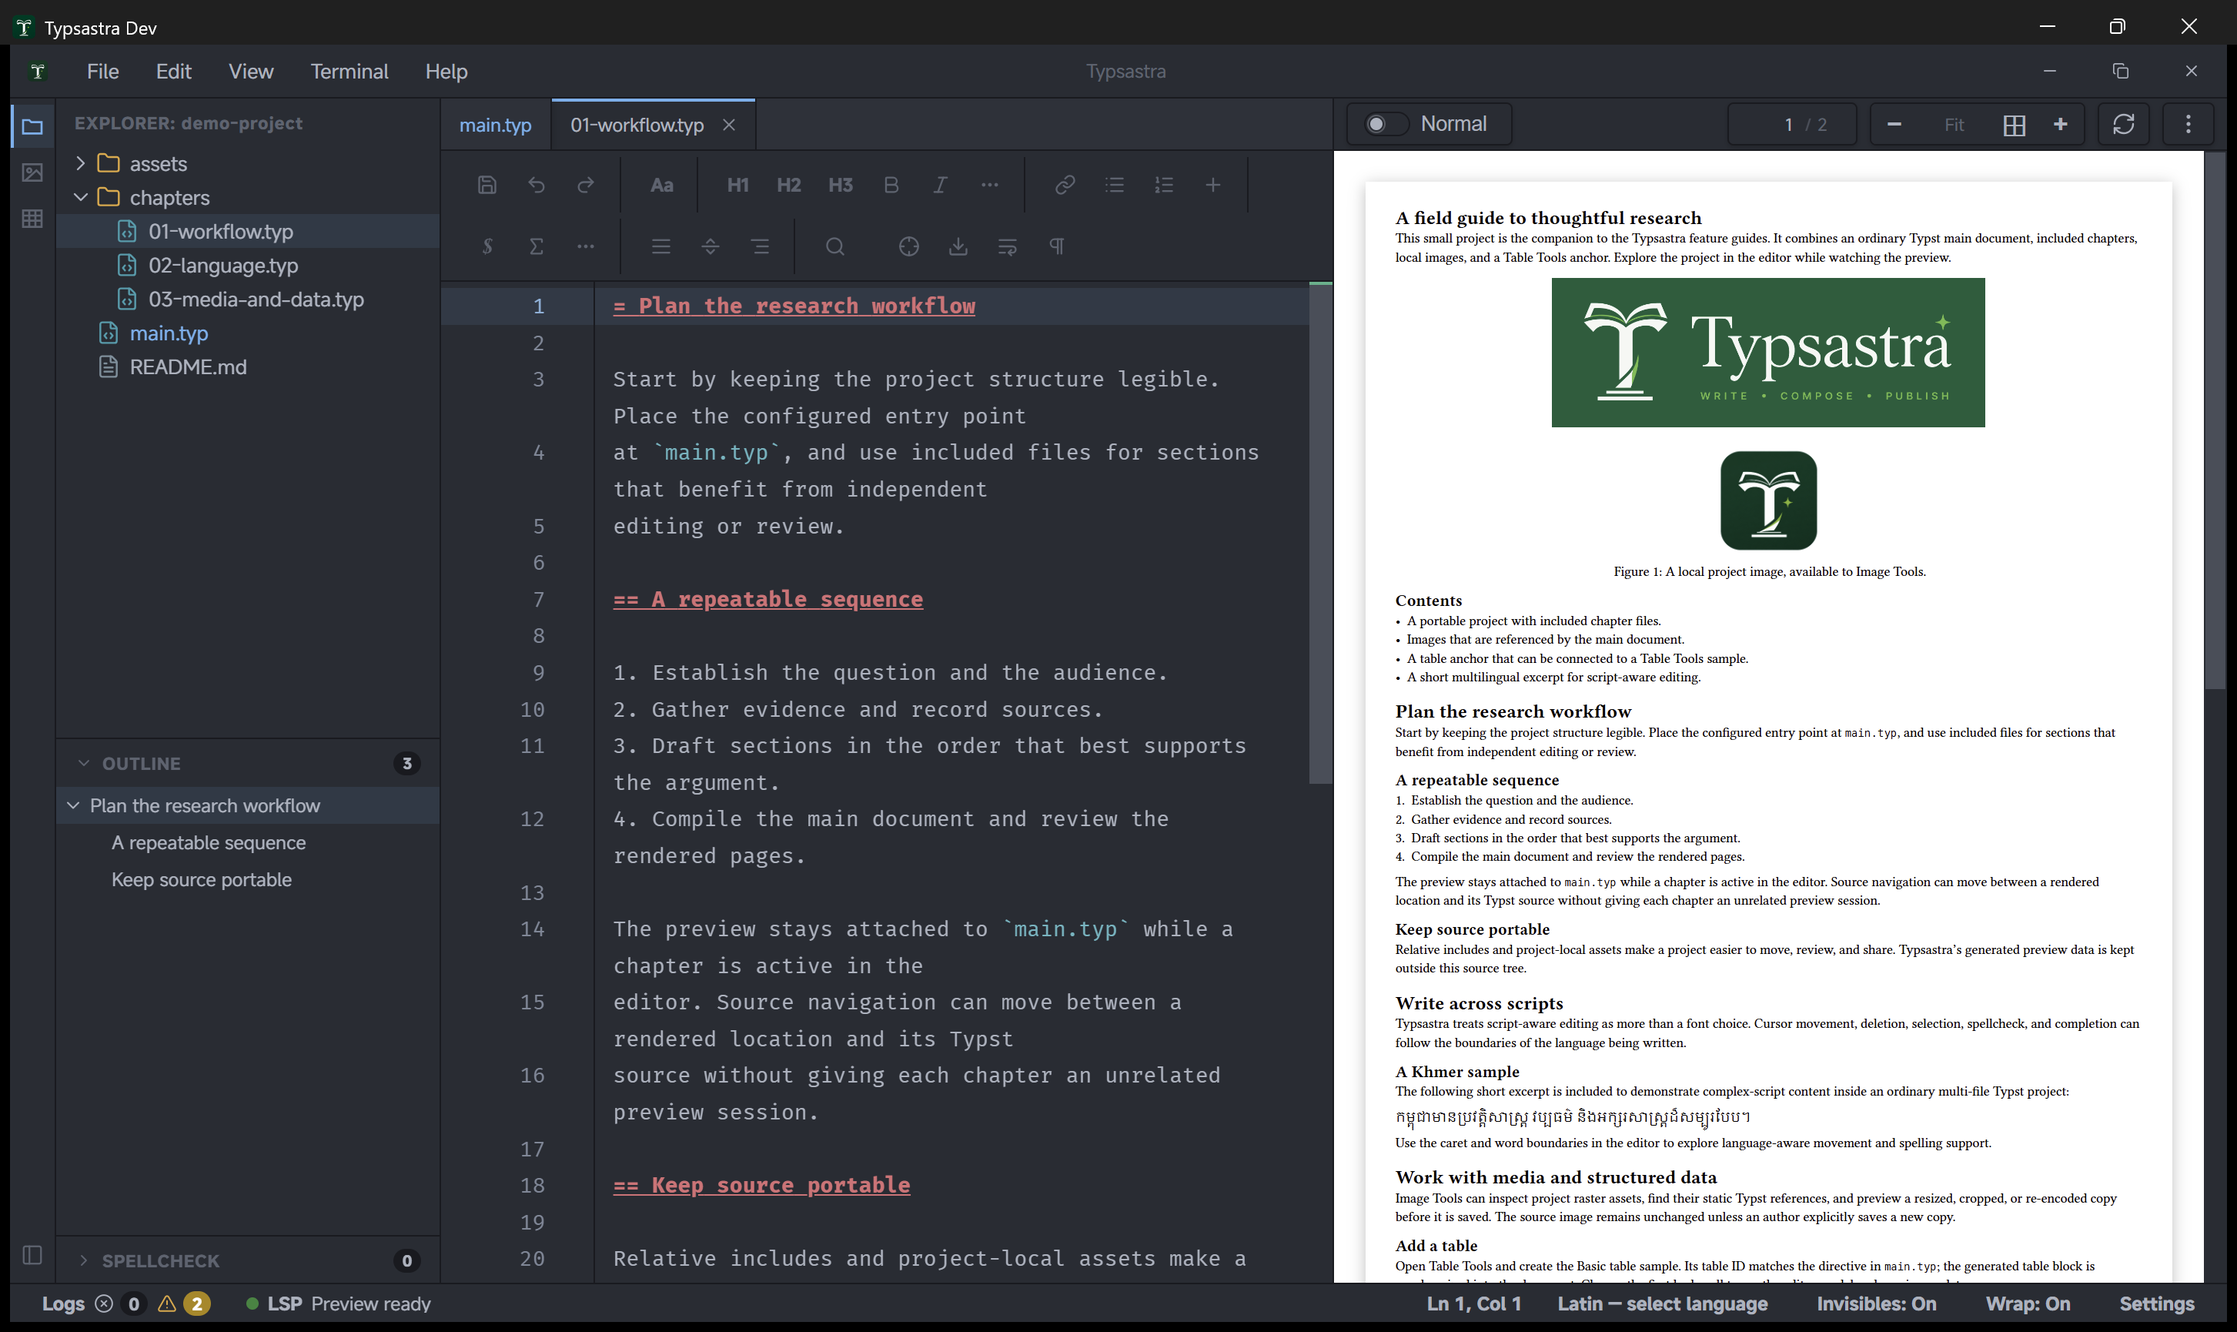
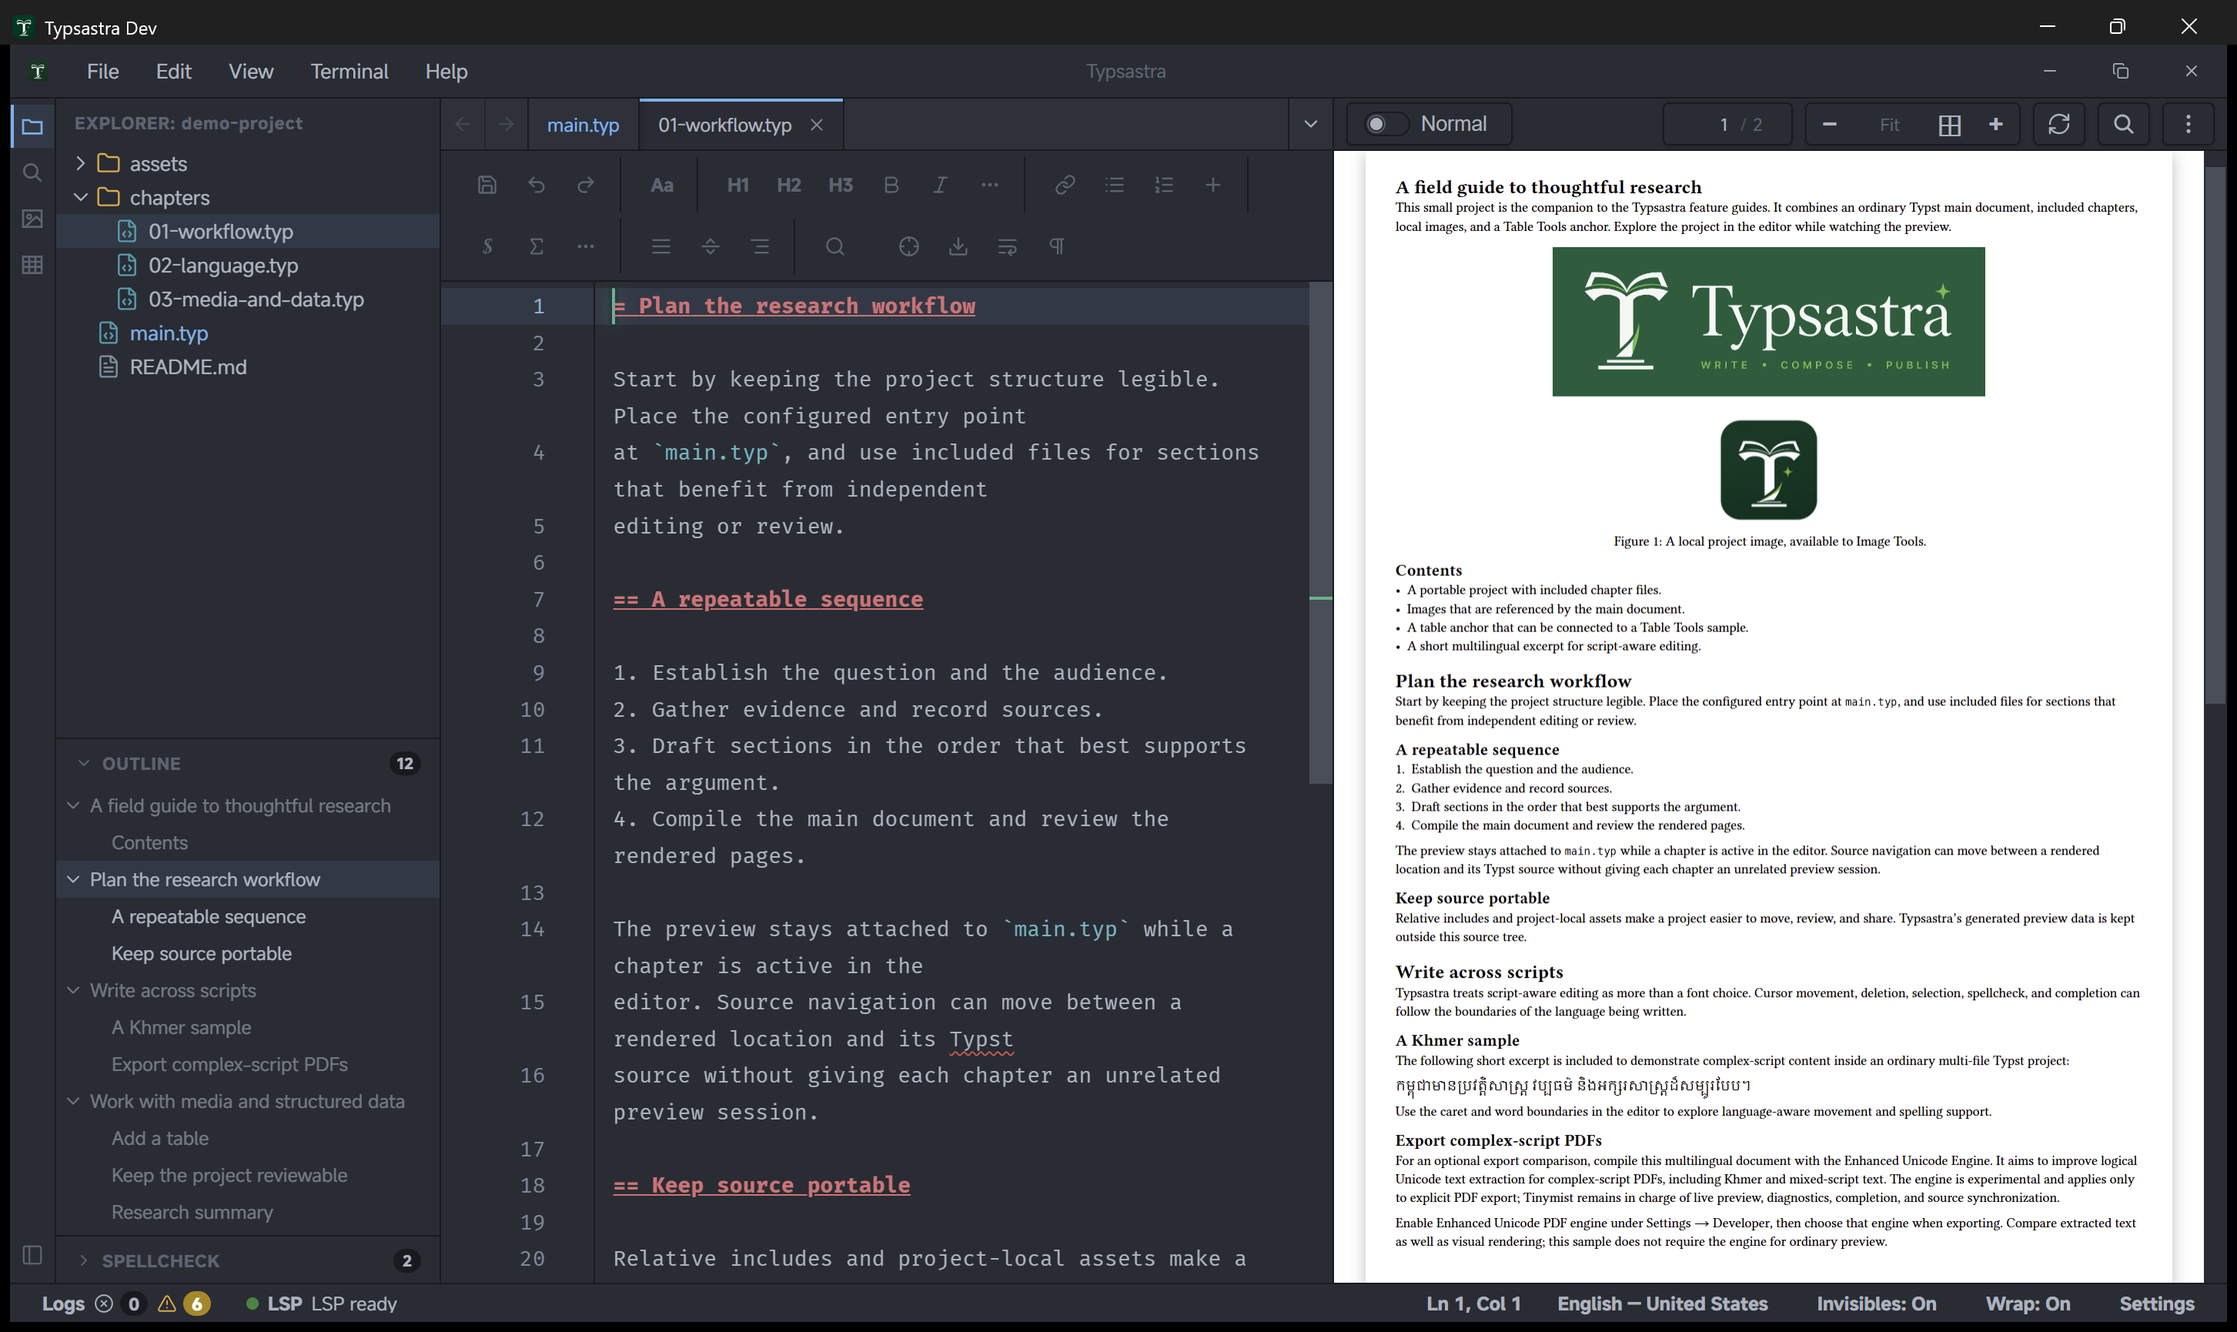
docs: add v0.10 guides and screenshots
- add v0.10 release notes and site highlights
- refresh editor, preview, tools, and project screenshots
- document search, recovery, outline, and language defaults
- update the demo project language assignment

diff --git a/docs/index.md b/docs/index.md
@@ -6,15 +6,41 @@ technical documentation, theses, books, and multilingual long-form writing.
 This site brings together step-by-step workflows, tool references, language
 guides, and contributor documentation.
 
-## New in v0.9.6
+## New in v0.10.0
 
-This update improves Hunspell dictionary compatibility, adds LibreOffice
-spelling variants, streamlines language-provider management, and fixes selection
-wrapping, paste, preview freshness, and stale diagnostic behavior.
+Typsastra v0.10.0 adds project-wide search and reviewed replacement, a shared
+main-document outline, Back/Forward source navigation, unsaved-work recovery,
+and global default document languages.
 
-Read the [v0.9.6 release notes](RELEASE_NOTES_V0.9.6.md), or explore the
-[preview settings](SETTINGS.md#preview) and
-[PDF navigation guide](tutorials/PDF_PREVIEW_AND_SYNC.md).
+Read the [v0.10.0 release notes](RELEASE_NOTES_V0.10.0.md).
+
+### Search and replace across a project
+
+![Project search sidebar with grouped results and filters](assets/screenshots/demo-project-search.png)
+
+![Reviewed replacement showing before and after lines in two files](assets/screenshots/demo-project-replace.png)
+
+### Recover unsaved work
+
+![Recovery review showing an unsaved main.typ buffer and a unified diff](assets/screenshots/demo-recovery-review.png)
+
+### Set default document languages
+
+![Language settings with Latin set to English (United States) for new projects](assets/screenshots/demo-language-settings.png)
+
+### Main-document outline and tab navigation
+
+The outline follows the configured main document while an included chapter is
+active. The tab-list menu reaches every open source tab.
+
+![Shared main-document outline while a chapter is active](assets/screenshots/demo-explorer.png)
+
+![Tab list menu listing the main document and included chapters](assets/screenshots/demo-tab-list.png)
+
+The previous v0.9.6 update improved Hunspell dictionary compatibility, added
+LibreOffice spelling variants, streamlined language-provider management, and
+fixed selection wrapping, paste, preview freshness, and stale diagnostic
+behavior. See the [v0.9.6 release notes](RELEASE_NOTES_V0.9.6.md).
 
 ## Start here
 
@@ -22,6 +48,8 @@ Read the [v0.9.6 release notes](RELEASE_NOTES_V0.9.6.md), or explore the
 - [Projects and main files](tutorials/PROJECTS_AND_MAIN_FILES.md) — understand multi-file projects and main documents.
 - [Create from templates](tutorials/PROJECT_TEMPLATES.md) — browse Universe, offline, and user templates.
 - [PDF preview and synchronization](tutorials/PDF_PREVIEW_AND_SYNC.md) — work with live preview and source navigation.
+- [Search a project](tutorials/PROJECT_SEARCH.md) — find and review replacements across project files.
+- [Editor productivity](tutorials/EDITOR_PRODUCTIVITY.md) — navigation, recovery, shortcuts, and editing workflows.
 - [Image Tools](tutorials/IMAGE_TOOLS.md) — inspect, crop, and optimize project images.
 - [Table Tools](tutorials/TABLE_TOOLS.md) — create, link, and edit Typst tables.
 - [Settings reference](SETTINGS.md) — configure editing, preview, language tools, and appearance.

diff --git a/docs/RELEASE_NOTES_V0.10.0.md b/docs/RELEASE_NOTES_V0.10.0.md
@@ -1,0 +1,67 @@
+# Typsastra v0.10.0 release notes
+
+Typsastra v0.10.0 completes the multi-file navigation, editing, and recovery
+work planned for this release, and adds built-in interface localization and
+global document-language defaults.
+
+## Project search and replacement
+
+- Search the current project from the sidebar with literal, regular-expression,
+  or fuzzy matching.
+- Filter by include/exclude globs, case, whole words, diacritics, ignored files,
+  or the pinned main document and its reachable sources.
+- Review results grouped by file with line numbers and highlighted excerpts;
+  selecting a result opens and selects the match without moving the PDF.
+- Replace selected matches across files with a before/after review. Unsafe
+  grapheme-splitting matches are rejected, and stale files abort the whole batch.
+- Undo a replacement batch while every affected buffer still matches its output.
+
+## Shared main-document outline
+
+- The project outline now follows the configured main document, including while
+  an included chapter is active.
+- Headings from other files are muted so the active file's headings stand out.
+- Outline selection and expansion survive tab changes and main-file updates.
+
+## Source navigation
+
+- Back and Forward navigate source locations across search, outline,
+  definitions, diagnostics, inverse sync, Explorer opens, and tab selections.
+- Navigation restores the editor selection and viewport without recompiling the
+  preview or moving the PDF.
+- The tab bar scrolls horizontally, and its menu lists every open tab.
+
+## Unsaved-work recovery
+
+- Typsastra snapshots unsaved editor text, including inactive dirty tabs and
+  pathless untitled buffers.
+- Recovery snapshots live outside the project and are reviewed through a unified
+  diff before restoring.
+- Restored files open as unsaved buffers; source files are never overwritten
+  automatically.
+- Corrupt records are reported separately and do not block valid snapshots.
+
+## Language settings
+
+- The interface can be localized through built-in locale catalogs. English
+  remains the source locale.
+- **Settings → Language → Default document languages** defines the script-language
+  assignments used by new projects. Latin defaults to English (United States).
+- Existing projects keep their own assignments in `.typsastra/config.json`.
+
+## Distribution
+
+- Added Chocolatey, Scoop, and AUR packaging metadata generated from published
+  release assets.
+- The AppImage build now uses Tauri CLI 2.12 so the packaged launcher is
+  executable for all users.
+
+## Compatibility
+
+v0.10.0 does not change the `.typsastra` project archive schema. Existing
+projects remain compatible. Recovery data and generated preview caches stay in
+machine-local application storage.
+
+Windows installers remain unsigned, so SmartScreen may warn on first launch. The
+macOS build remains unsigned and unnotarized; use the targeted Gatekeeper
+workaround in the [installation guide](INSTALL.md#open-an-unsigned-macos-release).

diff --git a/README.md b/README.md
@@ -14,7 +14,7 @@ Available packages:
 - Linux: `.AppImage` and `.deb`
 - macOS: experimental, unsigned and unnotarized build
 
-Typsastra is currently beta software. The latest release is v0.9.6.
+Typsastra is currently beta software. The latest release is v0.10.0.
 
 Windows users can also install through
 [Windows Package Manager](https://learn.microsoft.com/windows/package-manager/winget/)
@@ -46,6 +46,39 @@ The name combines Typst, the typesetting system at the center of the project, wi
 It serves writers and researchers whose languages are not always well supported by traditional technical-writing tools. Typsastra focuses on Unicode-safe editing, script-aware interaction, responsive PDF preview, extensible language tools, and multi-file project workflows while keeping the underlying Typst source portable.
 
 Khmer is the first language with deep support, including tailored cursor and deletion behavior, spellcheck, and word completion. Khmer demonstrates the depth Typsastra aims to provide; it is not the boundary of the project. The editing-policy and language-provider architecture is designed so other languages can add their own behavior without changing or weakening Khmer support.
+
+## v0.10.0: Search, recovery, and navigation
+
+Typsastra v0.10.0 adds project-wide search and reviewed replacement, a shared
+main-document outline, Back/Forward source navigation, unsaved-work recovery,
+and global default document languages.
+
+### Search and replace across a project
+
+<img src="./assets/screenshot-project-search.png" alt="Project search sidebar with grouped file results and filters" width="800"/>
+
+<img src="./assets/screenshot-project-replace.png" alt="Reviewed replacement showing before and after lines across two files" width="800"/>
+
+### Recover unsaved work
+
+Typsastra snapshots unsaved text outside the project and reviews recovery
+snapshots as unified diffs before restoring them as unsaved buffers.
+
+<img src="./assets/screenshot-recovery-review.png" alt="Recovery review showing an unsaved main.typ buffer and a unified diff" width="800"/>
+
+### Main-document outline, tab navigation, and language defaults
+
+The outline follows the configured main document while an included chapter is
+active. The tab-list menu reaches every open source tab, and new projects inherit
+the default document-language assignments configured in Settings.
+
+<img src="./assets/screenshot-main-outline.png" alt="Shared main-document outline while an included chapter is active" width="800"/>
+
+<img src="./assets/screenshot-tab-list.png" alt="Tab list menu listing the main document and included chapters" width="800"/>
+
+<img src="./assets/screenshot-language-settings.png" alt="Language settings with Latin set to English (United States) for new projects" width="800"/>
+
+See the [v0.10.0 release notes](./docs/RELEASE_NOTES_V0.10.0.md).
 
 ## v0.9.6: Language and editing reliability
 

diff --git a/docs/demo-project/README.md b/docs/demo-project/README.md
@@ -14,6 +14,17 @@ images so the Explorer, Image Tools, and multi-file preview have useful content.
    this demo project's configuration. Its ID matches the `//@table:basic_table`
    anchor in `main.typ`, and its generated Typst block is synchronized there.
 4. Change a table cell and inspect the live preview update.
+5. Open **Search Project** and search for `research` to see matches across the
+   main document and chapters. Enter a replacement and use **Review** to inspect
+   the before/after changes before applying them.
+6. Edit a chapter, wait for the unsaved-work snapshot, and reopen the project to
+   review the recovered text as a unified diff. Restoring opens an unsaved
+   buffer; it does not overwrite the source file.
+
+The project declares Latin script → English (United States) in
+`.typsastra/config.json`, so the language status and spellcheck tools have a
+usable default. New projects inherit this assignment from **Settings → Language →
+Default document languages**.
 
 ## Follow the guides
 

diff --git a/docs/tutorials/EXPLORER_AND_PROJECTS.md b/docs/tutorials/EXPLORER_AND_PROJECTS.md
@@ -4,7 +4,7 @@ Typsastra treats a project folder as the workspace. Source files stay ordinary
 files on disk; project-specific settings live in `.typsastra/config.json`, and
 the editing session is stored separately from source content.
 
-![Explorer showing a multi-file Typst project](../assets/screenshots/demo-explorer.png)
+![Shared main-document outline while an included chapter is active](../assets/screenshots/demo-explorer.png)
 
 ## Open a project
 
@@ -30,6 +30,10 @@ The configured main `.typ` file owns the project preview. Use **Set as Main
 File** from a Typst file's context menu. Files included from the main document
 share its compiler and preview; opening a chapter changes the editor tab without
 switching the PDF to a separate chapter preview.
+
+The Outline follows the main document even while an included chapter is active.
+Headings from other files are muted so the active file's headings stand out, and
+the outline expansion and selection survive tab changes.
 
 ## Other project files
 

diff --git a/docs/tutorials/PROJECT_SEARCH.md b/docs/tutorials/PROJECT_SEARCH.md
@@ -8,6 +8,8 @@ Open it from the magnifier in the activity bar, **Edit → Search Project**, or
 `Ctrl+Shift+F` (`Cmd+Shift+F` on macOS). The Search panel replaces the sidebar
 content; the editor and PDF preview stay visible.
 
+![Project search sidebar with grouped file results and filters](../assets/screenshots/demo-project-search.png)
+
 ## Search modes
 
 - **Literal** searches for the text as entered. Match case, Whole word, and
@@ -58,6 +60,8 @@ applying stale offsets.
 Literal and Regex searches can replace selected matches across the project. Open
 the replace field with **Edit → Replace in Project** or `Ctrl+Shift+H`
 (`Cmd+Shift+H` on macOS), or type a replacement directly in the Search sidebar.
+
+![Reviewed replacement showing before and after lines across two files](../assets/screenshots/demo-project-replace.png)
 
 1. Run a search and wait for it to finish. Replacement is unavailable while a
    search is still running, incomplete, truncated, or errored.

diff --git a/docs/tutorials/EDITOR_PRODUCTIVITY.md b/docs/tutorials/EDITOR_PRODUCTIVITY.md
@@ -47,6 +47,8 @@ recompiling the preview or moving the PDF. History is kept for the current
 session and is cleared when the project closes. Scroll the tab bar with the
 wheel or trackpad; the chevron at its right edge opens a list of every open tab.
 
+![Tab list menu listing the main document and included chapters](../assets/screenshots/demo-tab-list.png)
+
 Pane focus and keyboard navigation let you move between the editor, preview,
 Explorer, Outline, and Spellcheck without reaching for the mouse.
 
@@ -72,6 +74,8 @@ highlighted. Deleted files and untitled buffers reopen as dirty buffers so they
 can be kept with Save As. Saving removes only the matching snapshot revision;
 newer unsaved edits are retained. Corrupt records are reported separately and do
 not block other files.
+
+![Recovery review showing an unsaved main.typ buffer and a unified diff](../assets/screenshots/demo-recovery-review.png)
 
 ## Typst-aware editing
 

diff --git a/docs/SETTINGS.md b/docs/SETTINGS.md
@@ -339,6 +339,8 @@ assignments written into new projects. The initial default is Latin → English
 (United States). Existing projects keep their own assignments in
 `.typsastra/config.json`; change those from the status-bar language item.
 
+![Language settings with Latin set to English (United States) for new projects](assets/screenshots/demo-language-settings.png)
+
 **Add language...** opens the catalog dialog to download additional Hunspell dictionaries. Each catalog entry row displays detailed onboarding metadata:
 - **Provider Type:** Displays the type level (e.g. `Deep provider` or `Dictionary only`).
 - **Support Level:** Displays support depth (Basic, Enhanced, Deep) and stability (Stable, Experimental).

diff --git a/docs/tutorials/DRAFT_PREVIEW.md b/docs/tutorials/DRAFT_PREVIEW.md
@@ -12,6 +12,8 @@ renders the original images. Draft mode shows lightweight placeholders while
 keeping their measured dimensions and positions in the document. Switch back to
 Normal before export or final visual review; PDF export uses original assets.
 
+![Draft Preview showing layout-preserving image placeholders](../assets/screenshots/demo-draft-preview.png)
+
 <video controls preload="none" playsinline width="100%">
   <source src="https://github.com/user-attachments/assets/b1c45806-8747-4180-8e52-dbe8222f82db" type="video/mp4">
   Your browser cannot play the embedded video. <a href="https://github.com/user-attachments/assets/b1c45806-8747-4180-8e52-dbe8222f82db">Open the Draft Preview demo.</a>

diff --git a/docs/FEATURES.md b/docs/FEATURES.md
@@ -13,7 +13,8 @@ walkthrough.
 - [Editor and PDF preview](tutorials/EDITOR_AND_PREVIEW.md) — edit source, choose
   preview behavior, navigate pages, and synchronize source with the PDF.
 - [Editor productivity](tutorials/EDITOR_PRODUCTIVITY.md) — search, shortcuts,
-  Typst-aware editing, drag/drop and paste, and save/recompile behavior.
+  navigation, unsaved-work recovery, Typst-aware editing, drag/drop and paste,
+  and save/recompile behavior.
 - [Search a project](tutorials/PROJECT_SEARCH.md) — search literal, regex, or
   fuzzy matches across project files and review replacements across files with
   glob filters and stale-safe navigation.

diff --git a/docs/README.md b/docs/README.md
@@ -53,6 +53,7 @@ the reference documents when you need exact behavior or contributor contracts.
 
 ## Releases and plans
 
+- [v0.10.0 release notes](RELEASE_NOTES_V0.10.0.md)
 - [Enhanced Unicode Engine v0.4.1 release notes](ENHANCED_UNICODE_ENGINE_RELEASE_NOTES_V0.4.1.md)
 - [Enhanced Unicode Engine v0.4.0 release notes](ENHANCED_UNICODE_ENGINE_RELEASE_NOTES_V0.4.0.md)
 - [Enhanced Unicode Engine v0.3.0 benchmarks](ENHANCED_UNICODE_ENGINE_BENCHMARKS_V0.3.0.md)
